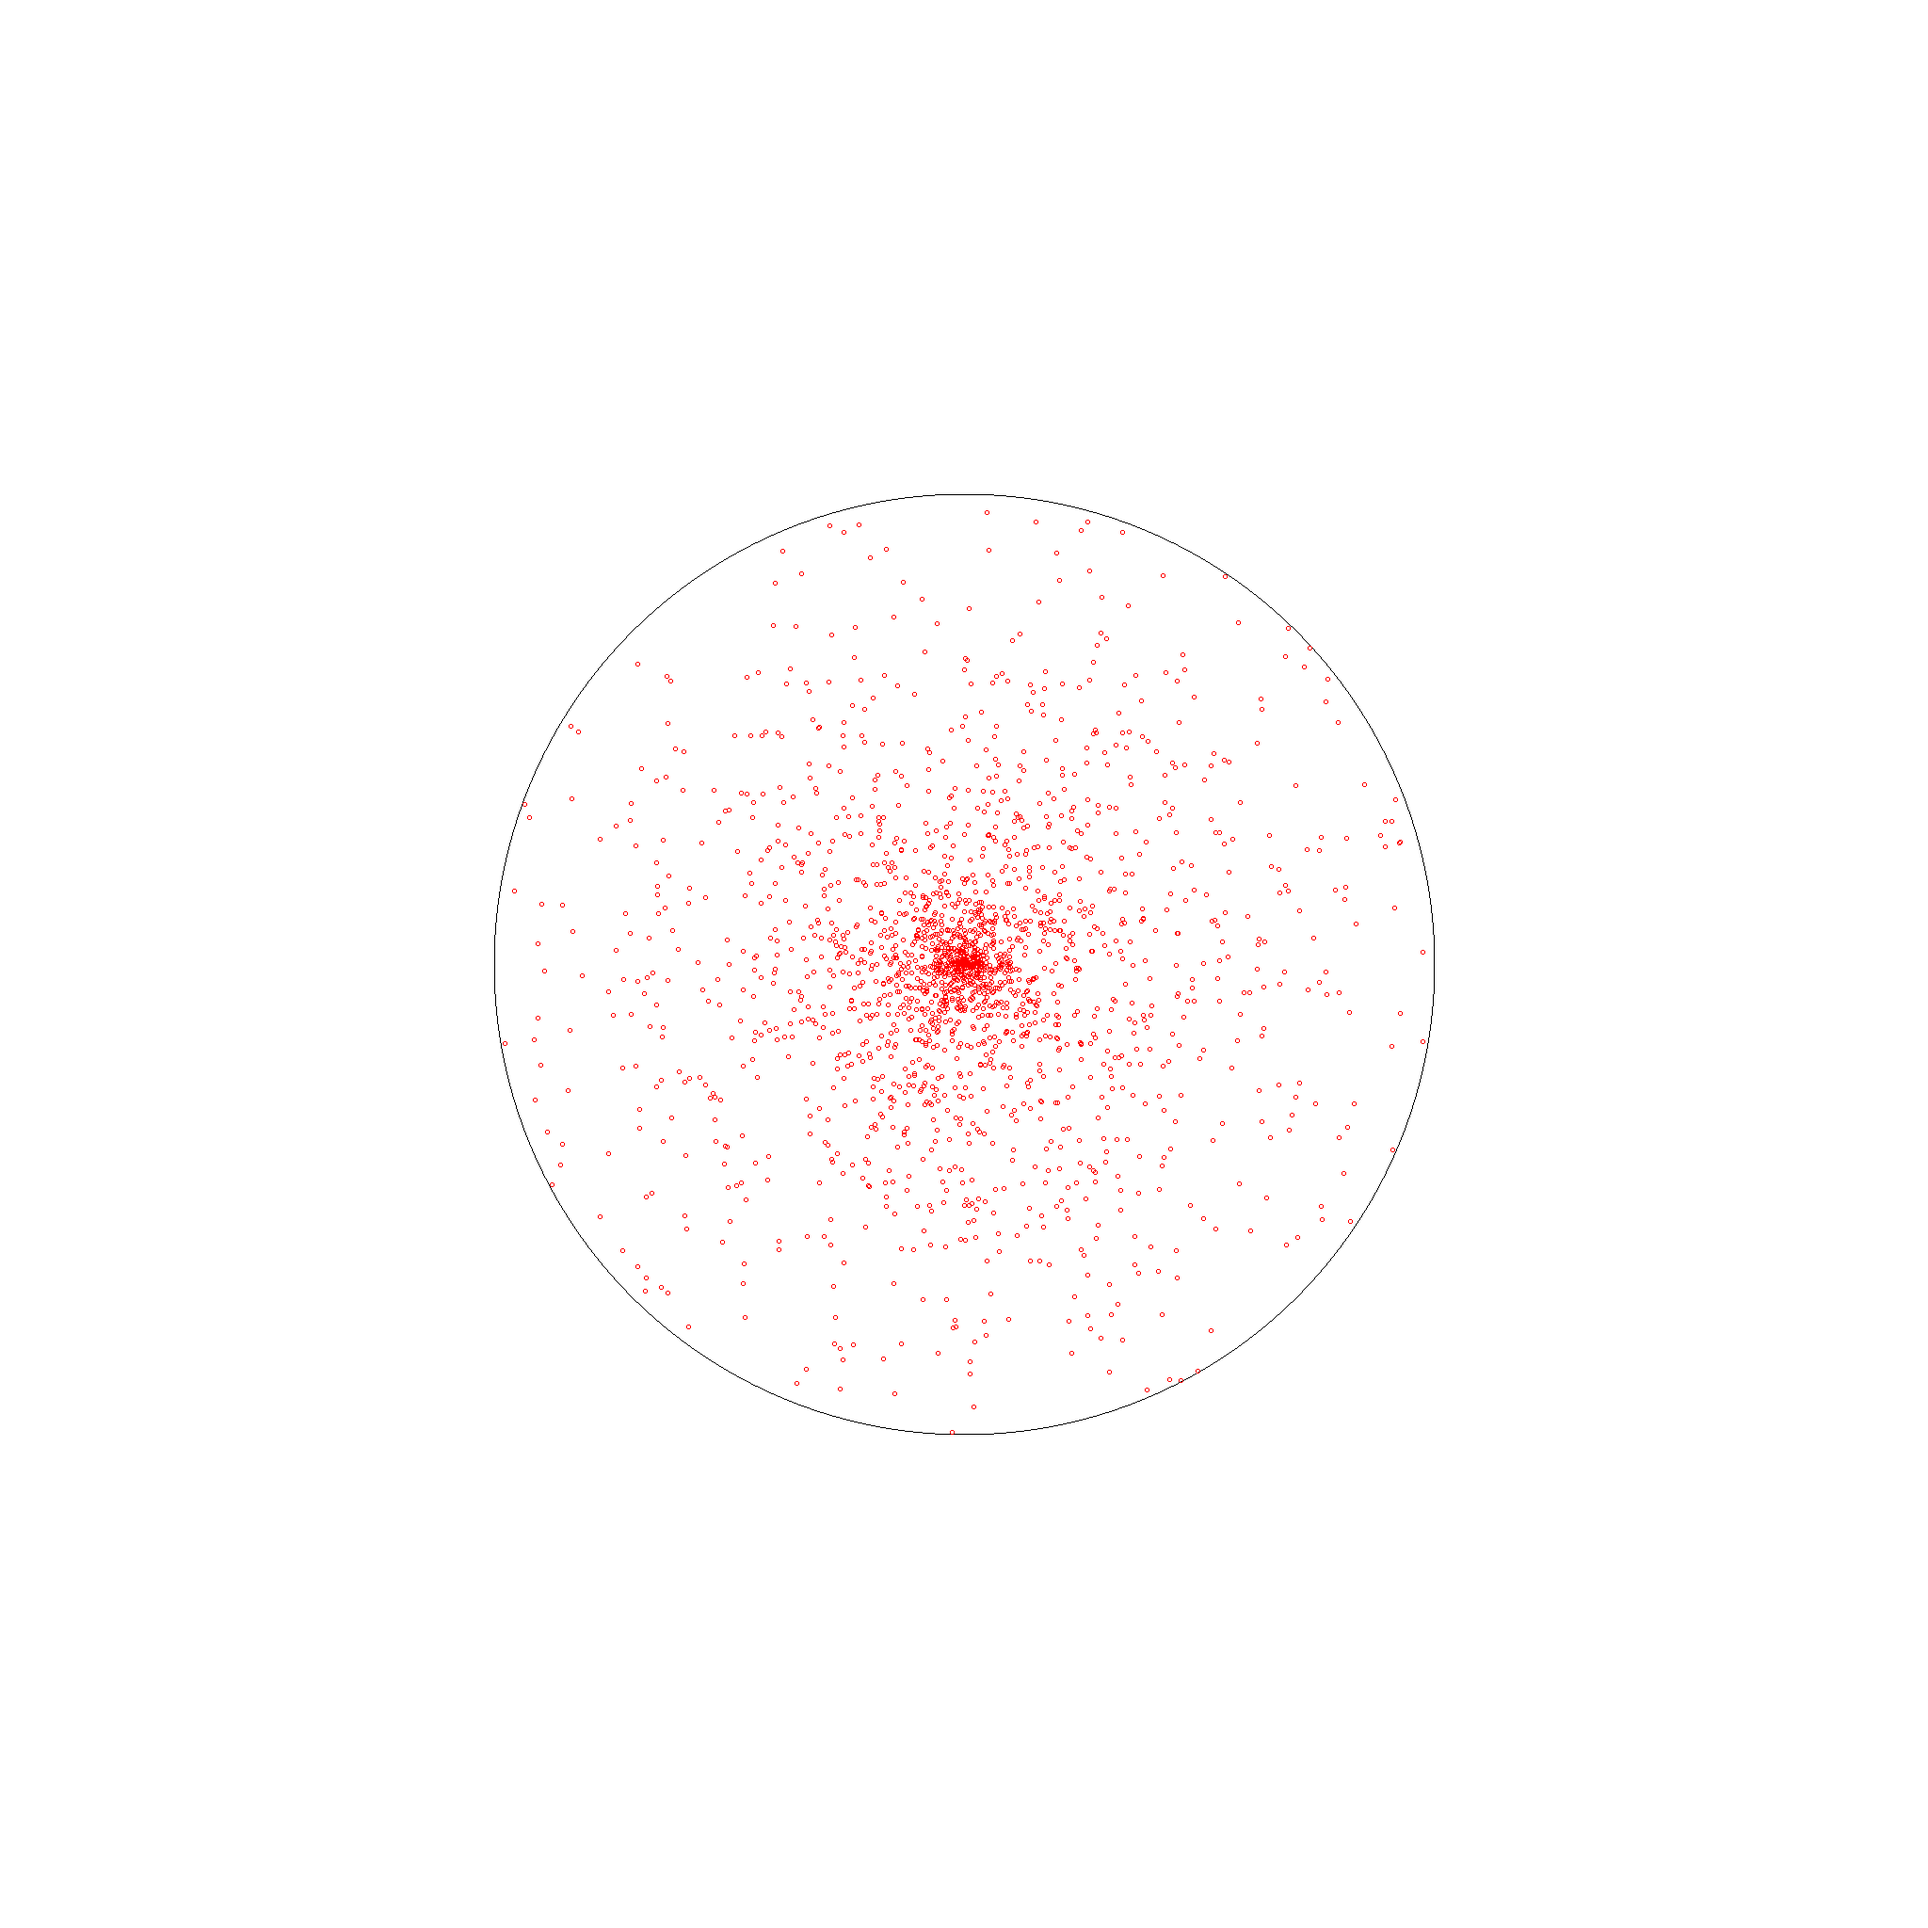
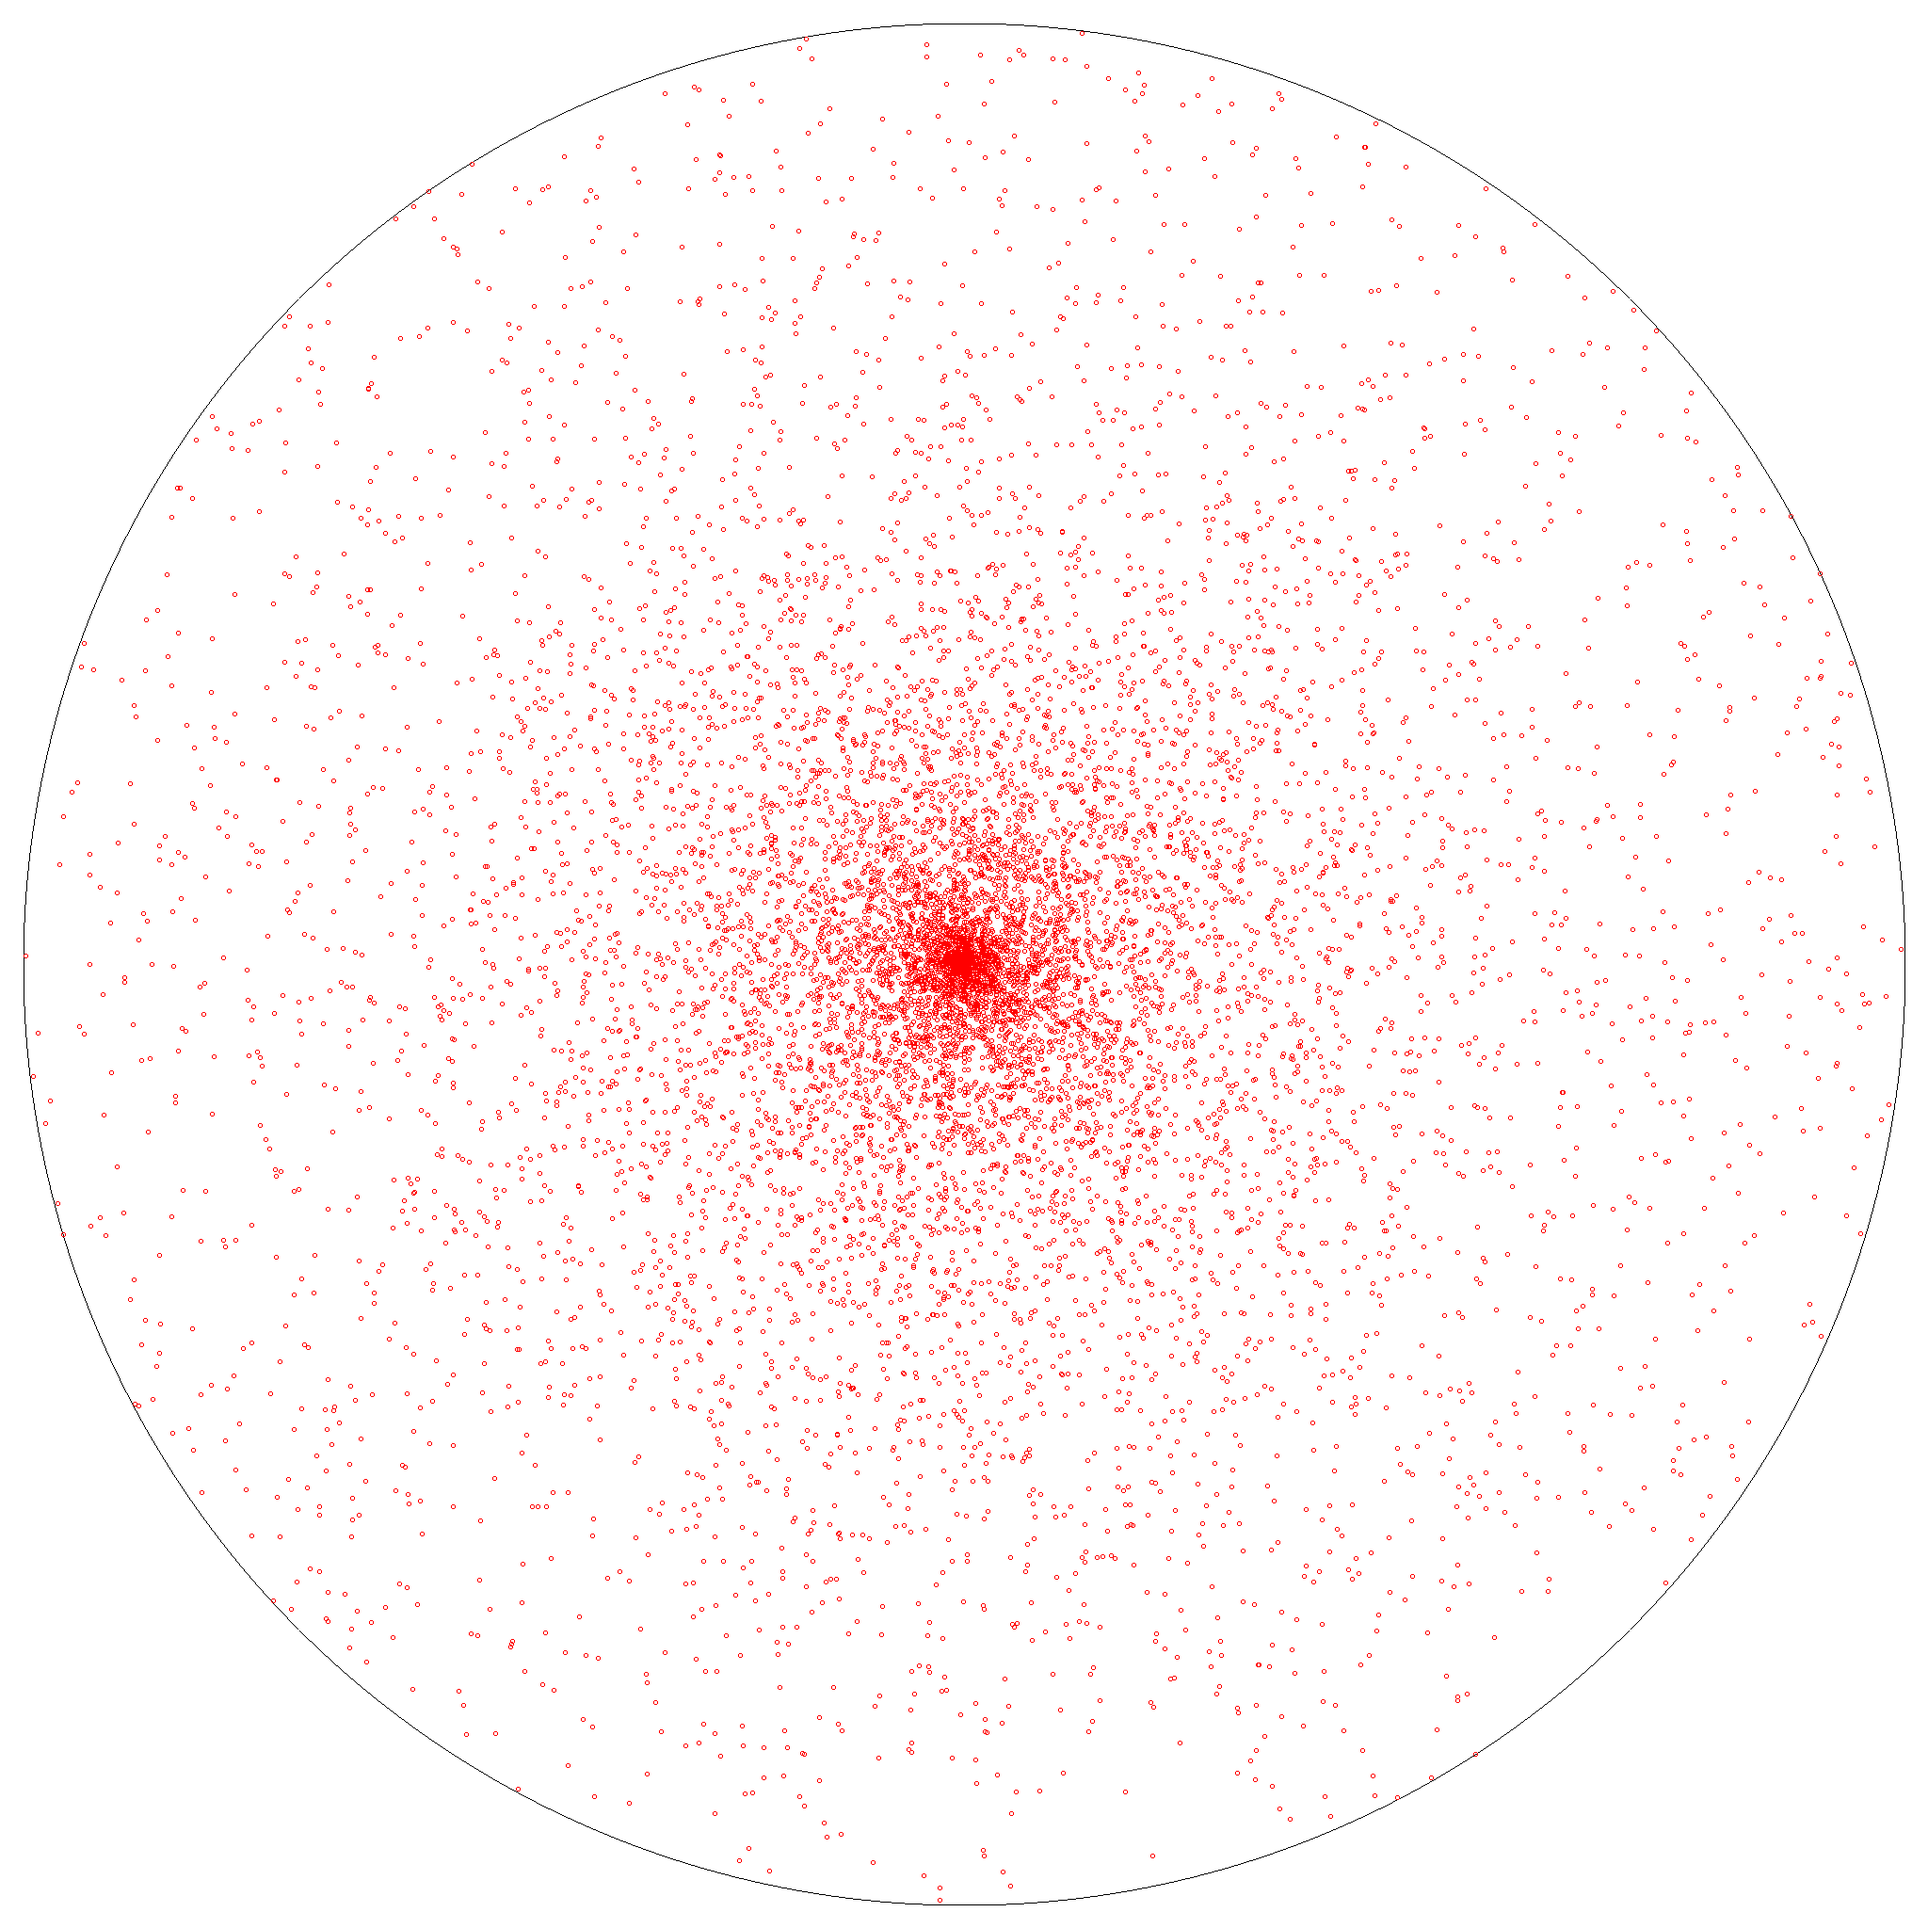
fake angle + radius, fake timestamp, fake likes

Changed region(s): [[0.375, 0.3438, 0.625, 0.6562]]

diff --git a/get-posts/cmd/main.go b/get-posts/cmd/main.go
@@ -1,6 +1,7 @@
 package main
 
 import (
+	"fmt"
 	"image"
 	"image/color"
 	"image/draw"
@@ -50,11 +51,11 @@ func setBackgroundColor(img *image.RGBA, c color.Color) {
     }
 }
 
-func main() {
+func testPopulation() {
 	width := 2048
 	height := 2048
 
-	pop := 2000
+	pop := 10000
 	
 
 	f, err := os.Create("population-test.png")
@@ -65,7 +66,7 @@ func main() {
 	rect := image.Rect(0, 0, width, height)
 	poptestimg := image.NewRGBA(rect)
 	setBackgroundColor(poptestimg, color.White)
-	drawCircle(poptestimg, 1024, 1024, 500, color.Black)
+	drawCircle(poptestimg, 1024, 1024, 1000, color.Black)
 	//drawCircle(poptestimg, 1024, 1024, 900, color.Black)
 
 	//drawCircle(poptestimg, 1024, 1024, 800, color.Black)
@@ -81,7 +82,7 @@ func main() {
 
 
 	for i := 0; i < pop; i++ {
-		r := fake.FakeDistanceFromCityV6(500)
+		r := fake.FakeDistanceFromCityV6(1000)
 		a := rand.Float64() * 360
 		x := int(r * math.Cos(a)) + 1024
 		y := int(r * math.Sin(a)) + 1024
@@ -93,4 +94,11 @@ func main() {
 		log.Fatalf("err: %v", err)
 	}
 	log.Printf("Success!")
+}
+
+func main() {
+	for i := 0; i < 1000; i++ {
+		likes := fake.FakeLikes(10000)
+		fmt.Println(likes)
+	}
 }

diff --git a/get-posts/generatedata.go b/get-posts/generatedata.go
@@ -4,11 +4,21 @@ import (
 	"fmt"
 	"math"
 	"math/rand"
+	"time"
 )
 
-func fakelikes() int {
-	likes := 20
+func FakeLikes(maxlikes int) int {
+	randnum := rand.Float64() * 2 + 1/math.Sqrt(float64(maxlikes))
+	likes := int(1/(randnum * randnum))
 	return likes
+}
+
+// Returns
+func FakeTimeStamp(years int64) int64 {
+	timenow := time.Now().UnixMilli()
+	// Between [0, # of milliseconds in a x # of years]
+	milliseconds := rand.Int63n(31536000000) 
+	return timenow + milliseconds * years
 }
 
 func FakeDistanceFromCityV1(radius float64) float64 {
@@ -43,7 +53,7 @@ func FakeDistanceFromCityV5(radius float64) float64 {
 
 // Looks the best
 func FakeDistanceFromCityV6(radius float64) float64 {
-	randnum := rand.Float64() * 0.75 + 0.25   // So randnum is between [0.827, 100]
+	randnum := rand.Float64() * 0.75 + 0.25   // So randnum is between [0.25, 1]
 	dist := radius * (1/math.Sqrt(randnum) - 1)
 	return dist
 }
